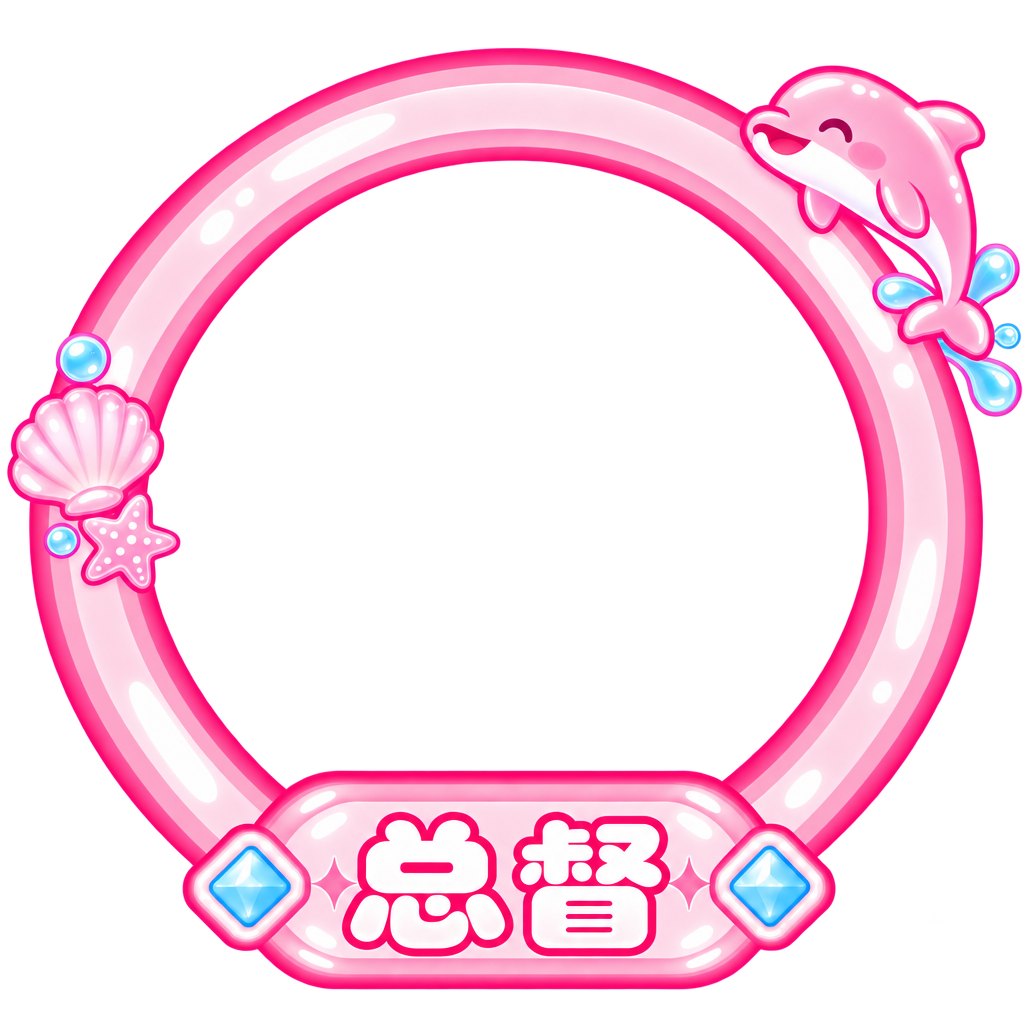
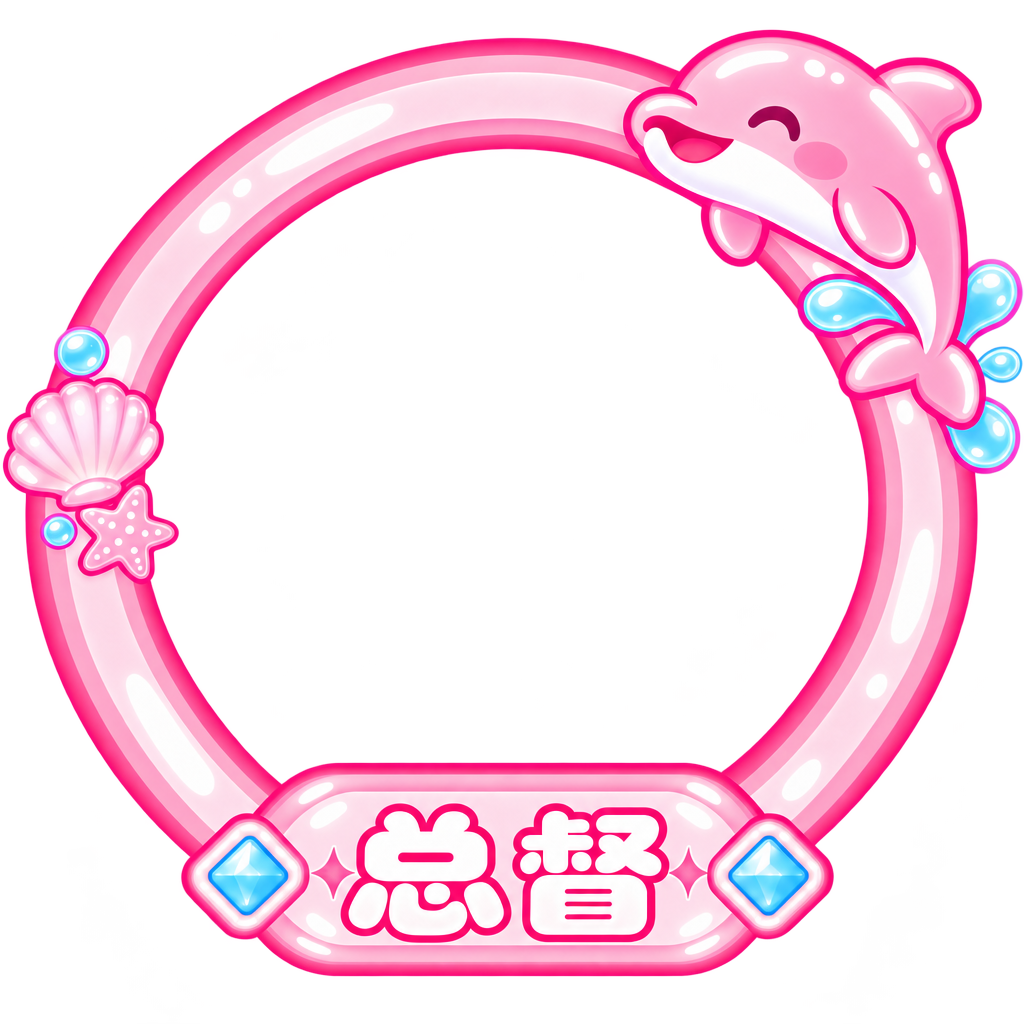
feat: 总督头像框换成海豚边框微调版

Changed region(s): [[0.0, 0.0312, 1.0, 0.9688], [0.125, 0.6562, 0.1875, 0.7188]]

diff --git a/dudu-pink-dolphin.css b/dudu-pink-dolphin.css
@@ -2,8 +2,8 @@
   @title        海豚也是豚
   @description  粉色弹幕气泡：自适应正文框 + 顶部用户名名牌，荆南圆体，中英日字体，蝴蝶结/珠链/糖果角标，按大航海等级切换头像装饰框
   @author       JoJoWu
-  @updated      September 11, 2026, 11:05:00 AM GMT+8
-  @version      1.1.9
+  @updated      September 11, 2026, 11:25:00 AM GMT+8
+  @version      1.1.10
   @thumbnail    https://cdn.jsdelivr.net/gh/JoJoWuBeBetter/dudu-pink-dolphin@main/assets/thumbnail.jpg
 */
 

diff --git a/README.md b/README.md
@@ -176,6 +176,7 @@ CSS 通过顶部的 `@import` 从 [ZeoSeven Fonts](https://fonts.zeoseven.com/it
 
 | 版本 | 变更 |
 | --- | --- |
+| 1.1.10 | 总督头像框再换一版（海豚边框微调版，`1024×1024`），内圈开口 69.7%，与 `--avatar-hole-size: 68.7%` 匹配 |
 | 1.1.9 | 总督头像框换成新素材（粉色海豚边框，`1024×1024`），内圈开口比例与原素材一致，`--avatar-hole-size` 无需调整 |
 | 1.1.8 | 预览图换成最新截图（`745×936`，原图直出）；`@thumbnail` 缩略图同步重出（`480×384`，取前三条弹幕） |
 | 1.1.7 | 重新加入 `--message-font-size`（默认 `30px`）：平台基准字号会影响所有部件，弹幕正文改为独立固定字号，与名字（`22px`）各自可调 |
